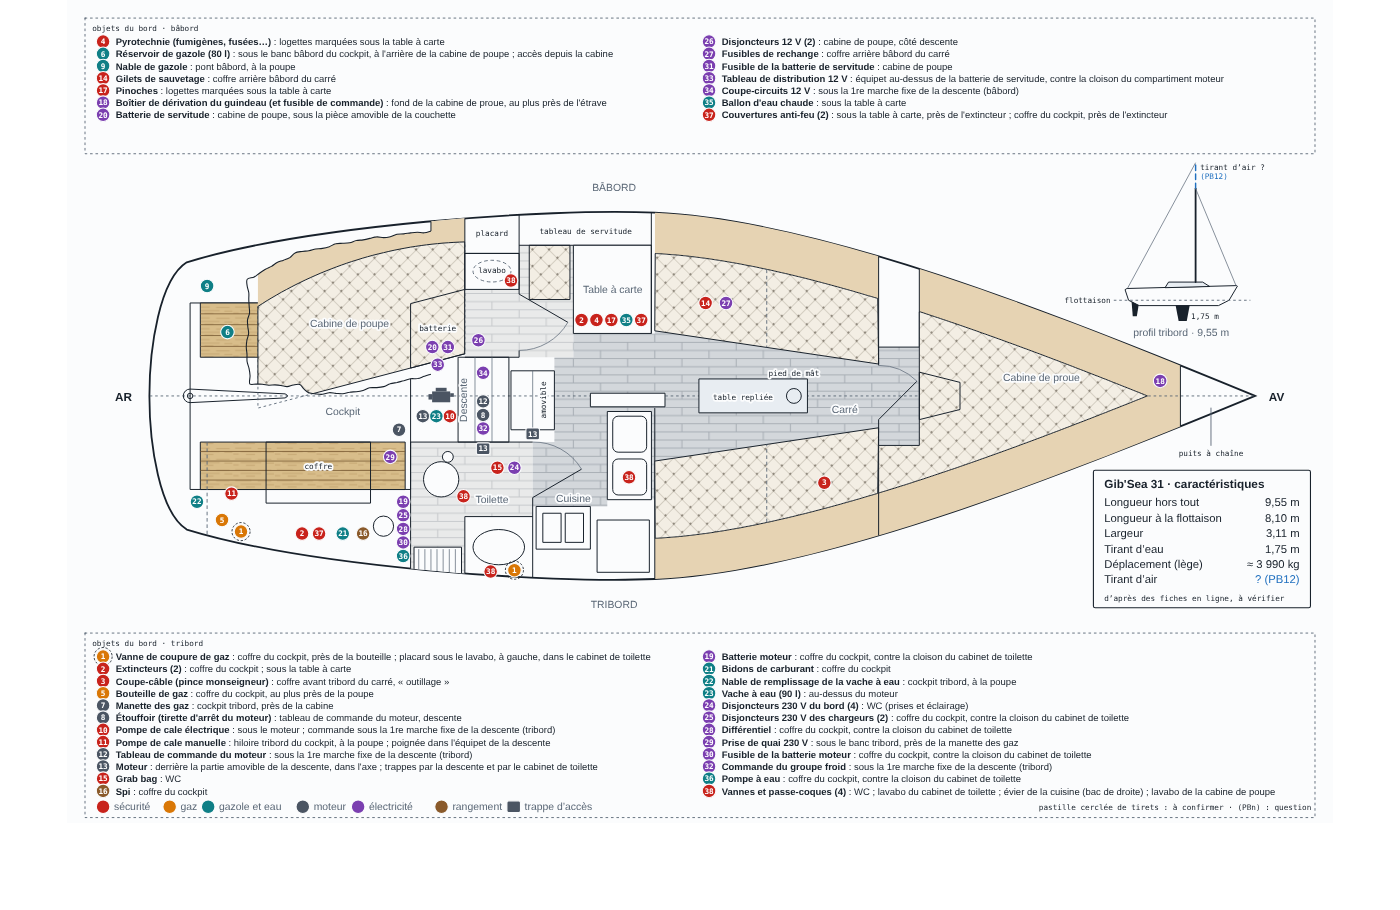
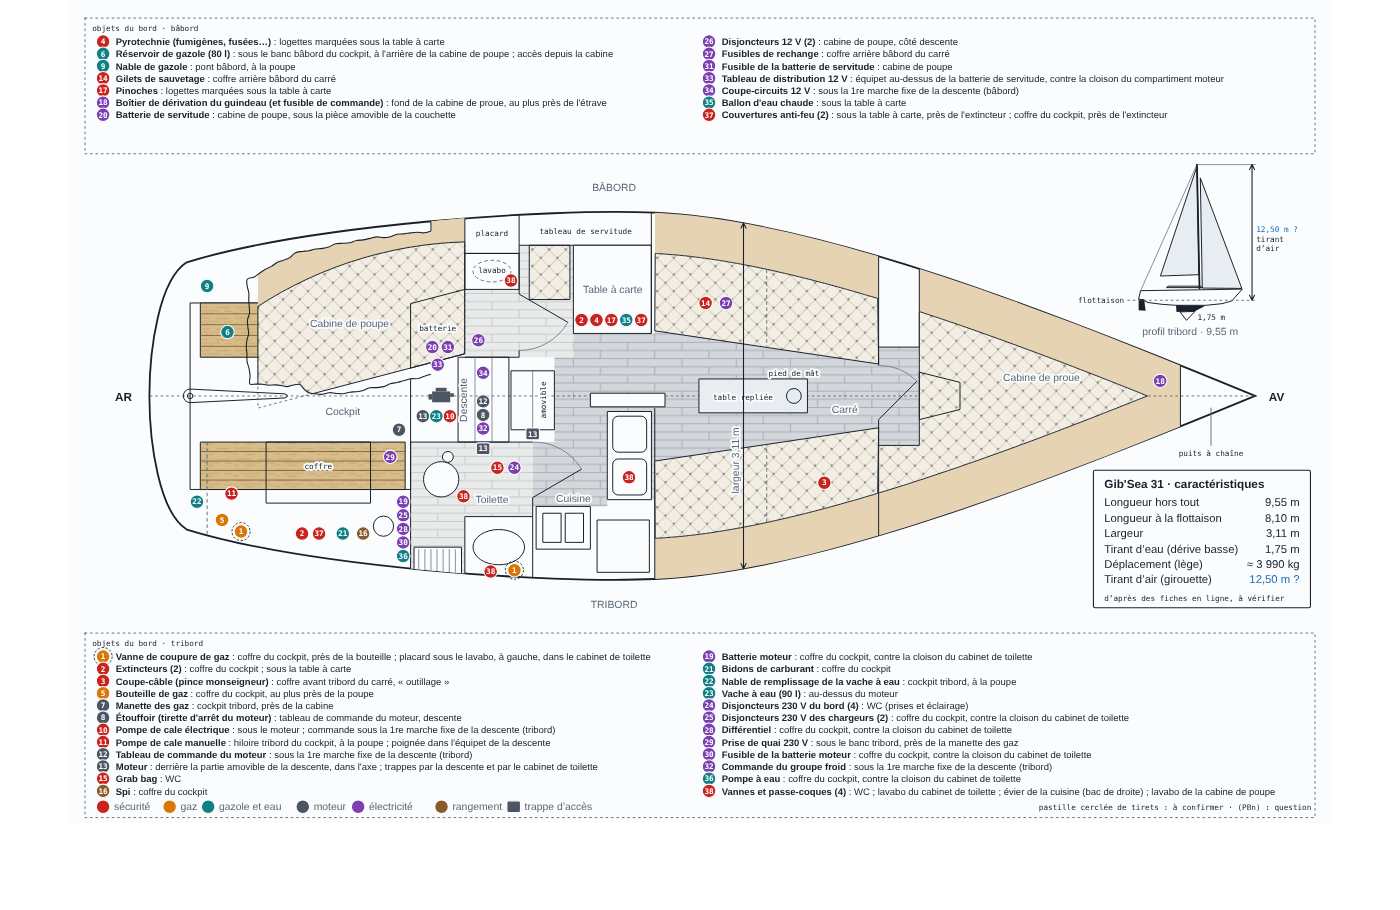
Plan de bord : tirant d'air 12,50 m (à vérifier), cote de la largeur, profil d'après le plan de voilure
- objets.yaml : tirant d'air 12,50 m girouette comprise, donné par l'utilisateur, à faire
  vérifier par Julie (PB12).
- Profil tribord redessiné d'après profil-constructeur.jpeg (fichier déposé, renommé) :
  coque, roof, aileron de quille et dérive, safran, mât, grand-voile, génois, pataras ;
  échelle sur la longueur hors tout et le tirant d'air, cote du tirant d'air.
- Cote de la largeur (3,11 m) sur le plan ; tirant d'eau précisé « dérive basse ».

Claude-Session: https://claude.ai/code/session_01PfnmSoVDkRxrtUipr37kZi

diff --git a/brouillons/plan-de-bord/plan_bord.py b/brouillons/plan-de-bord/plan_bord.py
@@ -406,47 +406,72 @@ def m(v, u="m"):
     return f"{v:.2f}".replace(".", ",") + f" {u}"
 B = BATEAU
 lignes = [("Longueur hors tout", m(B["longueur_hors_tout_m"])), ("Longueur à la flottaison", m(B["longueur_flottaison_m"])),
-          ("Largeur", m(B["largeur_m"])), ("Tirant d’eau", m(B["tirant_eau_m"])),
+          ("Largeur", m(B["largeur_m"])), ("Tirant d’eau (dérive basse)", m(B["tirant_eau_m"])),
           ("Déplacement (lège)", f"≈ {B['deplacement_kg']:,} kg".replace(",", " ")),
-          ("Tirant d’air", m(B["tirant_air_m"]) if B.get("tirant_air_m") else None)]
+          ("Tirant d’air (girouette)", m(B["tirant_air_m"]) + (" ?" if B.get("tirant_air_a_confirmer") else "")
+           if B.get("tirant_air_m") else None)]
 cx, cy = 1135, 520
 cart = [f'<rect class="callout" x="{cx}" y="{cy}" width="240" height="{34 + 17 * len(lignes) + 16}" rx="2"/>',
         f'<text class="tb" x="{cx + 12}" y="{cy + 20}">{B["modele"]} · caractéristiques</text>']
 for i, (lib, val) in enumerate(lignes):
     y = cy + 40 + 17 * i
     cart.append(f'<text class="t" x="{cx + 12}" y="{y}">{lib}</text>')
-    cart.append(f'<text class="t end" x="{cx + 228}" y="{y}">{val}</text>' if val else
+    cart.append(f'<text class="t end{" tu" if val.endswith("?") else ""}" x="{cx + 228}" y="{y}">{val}</text>' if val else
                 f'<text class="t tu end" x="{cx + 228}" y="{y}">? ({B["question_tirant_air"]})</text>')
 if B.get("statut") == "estime":
     cart.append(f'<text class="pin" x="{cx + 12}" y="{cy + 40 + 17 * len(lignes) + 2}">d’après des fiches en ligne, à vérifier</text>')
 
-# Profil tribord miniature (avant à droite), silhouette indicative : seules la longueur et le tirant
-# d'eau sont des données ; franc-bord, roof, quille, safran sur aileron et gréement fractionné sont dessinés
-# à vue, et la hauteur du mât, inconnue (PB12), est figurée en tirets au-dessus de la tête de foc.
-KP, PX, PW = 13, 1170, 332          # px par mètre, x de l'arrière, y de la flottaison
-def pp(x, z):                       # x en m depuis l'arrière, z en m au-dessus de la flottaison
-    return f"{PX + KP * x:.1f} {PW - KP * z:.1f}"
-def ppath(cls, *pts, close=True):
-    return f'<path class="{cls}" d="M' + " L".join(pp(*p) for p in pts) + (' Z"' if close else '"') + "/>"
-L, T = B["longueur_hors_tout_m"], B["tirant_eau_m"]
-MAT, HF = 6.0, 9.5                  # pied de mât (m depuis l'arrière), hauteur de la tête de foc (à vue)
-prof = [
-    '<g class="profil">',
-    ppath("amg-b", (0.15, 1.0), (L - 0.05, 1.25), (L, 1.2), (L - 0.7, 0), (L - 1.6, -0.45),
-          (1.2, -0.45), (0.3, 0), (0, 0.9)),                                     # coque
-    ppath("amg-f", (3.4, 1.07), (3.7, 1.55), (6.6, 1.55), (7.2, 1.17)),           # roof
-    ppath("dn", (4.3, -0.42), (5.5, -0.42), (5.25, -T), (4.55, -T)),               # quille
-    ppath("dn", (0.55, -0.1), (1.15, -0.42), (1.0, -1.35), (0.65, -1.35)),         # aileron et safran
-    f'<path class="n w2" d="M{pp(MAT, 1.55)} L{pp(MAT, HF)}"/>',                  # mât jusqu'à la tête de foc
-    f'<path class="u" d="M{pp(MAT, HF)} L{pp(MAT, HF + 2.2)}"/>',                 # haut du mât : hauteur inconnue
-    f'<path class="amg-l" d="M{pp(MAT, HF)} L{pp(L - 0.1, 1.22)} M{pp(MAT, HF + 2.2)} L{pp(0.2, 1.0)}"/>',  # étai, pataras
-    f'<path class="bound" d="M{PX - 12} {PW} H{PX + KP * L + 14}"/>',              # flottaison
-    f'<text class="pin" x="{PX + KP * (MAT + 0.4):.0f}" y="{PW - KP * (HF + 1.6):.0f}">tirant d’air ?</text>',
-    f'<text class="pin tu" x="{PX + KP * (MAT + 0.4):.0f}" y="{PW - KP * (HF + 0.8):.0f}">({B["question_tirant_air"]})</text>',
-    f'<text class="pin end" x="{PX - 16}" y="{PW + 3}">flottaison</text>',
-    f'<text class="pin" x="{PX + KP * 5.6:.0f}" y="{PW + KP * T - 2:.0f}">{m(T)}</text>',
-    f'<text class="ts mid" x="{PX + KP * L / 2:.0f}" y="{PW + KP * T + 16:.0f}">profil tribord · {m(L)}</text>',
-    '</g>']
+# Profil tribord miniature (avant à droite), redessiné d'après le plan de voilure du constructeur
+# (profil-constructeur.jpeg, points relevés en pixels de l'image) : mis à l'échelle sur la longueur hors tout
+# (horizontalement) et sur le tirant d'air (verticalement) ; sans tirant d'air, haut du mât en tirets (PB12).
+L, T, TA = B["longueur_hors_tout_m"], B["tirant_eau_m"], B.get("tirant_air_m")
+IX0, IX1, IWL, ITOP = 81.7, 428.3, 533.3, 38     # image : arrière, étrave, flottaison, tête de mât (girouette)
+KP, PX, PW = 12, 1185, 332                         # px par mètre, x de l'arrière, y de la flottaison
+SX, SZ = L / (IX1 - IX0), (TA or 12.5) / (IWL - ITOP)
+def pi(X, Y):                                      # point de l'image → point du folio
+    return f"{PX + KP * SX * (X - IX0):.1f} {PW - KP * SZ * (IWL - Y):.1f}"
+def ipath(cls, *pts, close=True):
+    return f'<path class="{cls}" d="M' + " L".join(pi(*q) for q in pts) + (' Z"' if close else '"') + "/>"
+COQUE = [(88.3, 498.3), (428.3, 492.7), (393.3, 536), (360, 546), (306.7, 551.7), (206.7, 551.7),
+         (160, 548.3), (113.3, 541.7), (96.7, 533.3), (81.7, 528.3)]
+ROOF = [(175, 487), (180, 481.7), (290, 481.7), (295, 487)]
+LEST = [(206.7, 551.7), (208.3, 576), (270, 573.3), (305, 553.3)]          # aileron de quille
+DERIVE = [(220, 576), (241.7, 606.7), (270, 574)]                         # dérive basse
+SAFRAN = [(81.7, 528.3), (100, 530), (105, 571.7), (81.7, 570)]
+GV = [(276.7, 44.7), (283.3, 440), (154.7, 444.7)]                        # grand-voile : tête, point d'amure, point d'écoute
+GENOIS = [(288, 86.7), (426.7, 490), (294.7, 488.7)]
+xd = PX + KP * SX * (241.7 - IX0)
+prof = ['<g class="profil">',
+        ipath("amg-f", *GV), ipath("amg-f", *GENOIS),
+        f'<path class="amg-l" d="M{pi(276.7, 38)} L{pi(88.3, 498.3)}"/>',      # pataras
+        ipath("amg-b", *COQUE), ipath("amg-f", *ROOF),
+        ipath("dn", *LEST), ipath("amg-b", *DERIVE), ipath("dn", *SAFRAN),
+        f'<path class="n w2" d="M{pi(285.3, 490)} L{pi(276.7, 38)}"/>',       # mât
+        f'<path class="bound" d="M{PX - 12} {PW} H{PX + KP * L + 14}"/>',      # flottaison
+        f'<text class="pin end" x="{PX - 16}" y="{PW + 3}">flottaison</text>',
+        f'<text class="pin" x="{xd + 12:.0f}" y="{PW + KP * SZ * (606.7 - IWL):.0f}">{m(T)}</text>',
+        f'<text class="ts mid" x="{PX + KP * L / 2:.0f}" y="{PW + KP * SZ * (606.7 - IWL) + 16:.0f}">profil tribord · {m(L)}</text>']
+HM = SZ * (IWL - ITOP)
+if TA:   # cote du tirant d'air, à droite de l'étrave
+    xc, conf = PX + KP * (L + 0.9), B.get("tirant_air_a_confirmer")
+    prof += [f'<path class="amg-l" d="M{pi(281, 38)} H{xc + 4}"/>',
+             f'<path class="arr" d="M{xc} {PW} V{PW - KP * HM:.1f} M{xc - 3} {PW - KP * HM + 6:.1f} L{xc} {PW - KP * HM:.1f} L{xc + 3} {PW - KP * HM + 6:.1f}'
+             f' M{xc - 3} {PW - 6} L{xc} {PW} L{xc + 3} {PW - 6}"/>',
+             f'<text class="pin{" tu" if conf else ""}" x="{xc + 5:.0f}" y="{PW - KP * HM / 2:.0f}">{m(TA)}{" ?" if conf else ""}</text>',
+             f'<text class="pin" x="{xc + 5:.0f}" y="{PW - KP * HM / 2 + 11:.0f}">tirant</text>',
+             f'<text class="pin" x="{xc + 5:.0f}" y="{PW - KP * HM / 2 + 21:.0f}">d’air</text>']
+else:
+    prof += [f'<text class="pin tu" x="{PX + KP * 6.5:.0f}" y="{PW - KP * HM:.0f}">tirant d’air ? ({B["question_tirant_air"]})</text>']
+prof.append('</g>')
+
+# Cote de la largeur sur le plan, au maître-bau du dessin (bord le plus écarté de l'axe)
+xb, yb = min(bord_babord(), key=lambda q: q[1])
+xb += 190                                      # décalée vers l'avant, hors des pastilles de la table à carte
+yb = min(q[1] for q in bord_babord() if abs(q[0] - xb) < 3)
+Xb, Yh, Yt = OX + K * xb, OY + K * yb, OY + K * M(yb)
+prof += [f'<path class="arr" d="M{Xb:.1f} {Yh:.1f} V{Yt:.1f} M{Xb - 3:.1f} {Yh + 6:.1f} L{Xb:.1f} {Yh:.1f} L{Xb + 3:.1f} {Yh + 6:.1f}'
+         f' M{Xb - 3:.1f} {Yt - 6:.1f} L{Xb:.1f} {Yt:.1f} L{Xb + 3:.1f} {Yt - 6:.1f}"/>',
+         f'<text class="ts mid halo" x="{Xb - 5:.1f}" y="{OY + K * (CY + 95):.1f}" transform="rotate(-90 {Xb - 5:.1f} {OY + K * (CY + 95):.1f})">largeur {m(B["largeur_m"])}</text>']
 
 svg = f'''<svg xmlns="http://www.w3.org/2000/svg" viewBox="0 0 1400 910" role="img" aria-label="Plan de bord vu de dessus : aménagement intérieur, pont et objets du bord du Gib'Sea 31.">
   <title>Folio 6 · Plan de bord</title>

diff --git a/brouillons/plan-de-bord/README.md b/brouillons/plan-de-bord/README.md
@@ -8,9 +8,9 @@ Phases :
 2. Données des objets : premier essai le 19/10 dans `objets.yaml`, d'après la feuille Google « Emplacement trucs bateau » (lue sans la modifier), repris le même jour avec la feuille complétée (38 lignes) et les réponses de l'utilisateur. Chaque objet a un numéro, une catégorie (couleur de la pastille), son emplacement en clair et ses positions sur le plan, toutes estimées. À reporter dans le relevé quand les emplacements seront confirmés.
 3. Légendes : premier essai, pastilles numérotées sur le plan (cerclées de tirets quand la feuille dit « à confirmer »), repères carrés pour les trappes d'accès, pictogramme du moteur et liste par bord dans les cadres du haut et du bas, avec la clé des couleurs.
 
-4. Mise à jour du 20/10 : feuille relue (vanne de gaz : placard sous le lavabo, à gauche, dans le cabinet de toilette) ; cartouche des caractéristiques du bateau (`bateau:` dans `objets.yaml`), d'après des fiches en ligne ([sailboatdata](https://sailboatdata.com/sailboat/gibsea-31/), [SailingTheWeb](https://www.sailingtheweb.com/en/sailboat/gibert+marine+(gib+sea)/gib+sea+31), [Yacht Database](https://www.yachtdatabase.com/sv/review.jsp?id=Gib%27Sea+31)), donc `statut: estime` jusqu'à vérification sur les papiers du bord ; copie pour Inkscape ; profil tribord miniature au-dessus de l'étrave, à l'échelle pour la longueur et le tirant d'eau seulement : franc-bord, roof, quille, safran sur aileron et gréement fractionné dessinés à vue, haut du mât en tirets tant que le tirant d'air est inconnu (PB12).
+4. Mise à jour du 20/10 : feuille relue (vanne de gaz : placard sous le lavabo, à gauche, dans le cabinet de toilette) ; cartouche des caractéristiques du bateau (`bateau:` dans `objets.yaml`), d'après des fiches en ligne ([sailboatdata](https://sailboatdata.com/sailboat/gibsea-31/), [SailingTheWeb](https://www.sailingtheweb.com/en/sailboat/gibert+marine+(gib+sea)/gib+sea+31), [Yacht Database](https://www.yachtdatabase.com/sv/review.jsp?id=Gib%27Sea+31)), donc `statut: estime` jusqu'à vérification sur les papiers du bord ; copie pour Inkscape ; profil tribord miniature au-dessus de l'étrave, redessiné d'après le plan de voilure du constructeur (`profil-constructeur.jpeg`, déposé par l'utilisateur le 20/10), mis à l'échelle sur la longueur hors tout et sur le tirant d'air ; cote de la largeur sur le plan, au maître-bau. Le plan de voilure montre un dériveur lesté (aileron de quille et dérive, cf. le puits de dérive) : 1,75 m est le tirant d'eau dérive basse. Tirant d'air : 12,50 m girouette comprise, donné par l'utilisateur le 20/10, à faire vérifier par Julie (PB12 reste ouverte jusque-là).
 
-Questions de la phase 2 : PB1 à PB11, toutes répondues le 19/10. PB12 (20/10) : tirant d'air (hauteur du mât au-dessus de la flottaison, antenne comprise) ? Aucune fiche en ligne ne le donne ; à mesurer ou à lire sur les papiers du bord. Restent à faire : vérifier les emplacements « à confirmer avec Julie » (vanne de gaz), puis reporter les objets dans le relevé.
+Questions de la phase 2 : PB1 à PB11, toutes répondues le 19/10. PB12 (20/10) : tirant d'air ? Aucune fiche en ligne ne le donne ; 12,50 m girouette comprise d'après l'utilisateur, à faire vérifier par Julie. Restent à faire : vérifier les emplacements « à confirmer avec Julie » (vanne de gaz), puis reporter les objets dans le relevé.
 
 `python brouillons/plan-de-bord/plan_bord.py` régénère le SVG et sa copie `folio-6-plan-de-bord-inkscape.svg` : mêmes dessins, couleurs du thème clair écrites en dur (Inkscape et la plupart des visionneuses ne lisent pas les variables CSS), fond dans un calque verrouillé, pastilles et trappes du plan dans le calque « Pastilles à placer », identifiées `pN-i` / `tN-i` (objet N, i-ème emplacement, en partant de 0). Pour placer les repères : déplacer les pastilles dans cette copie, sans toucher au reste, puis reporter leurs positions dans `objets.yaml` (X = 80 + 0,75 · x ; Y = 196,25 + 0,75 · y) ; ne pas retoucher les SVG, réécrits à chaque génération. Le script il reprend le bloc `<style>` du folio 0 et y ajoute les classes `amg`, `amg-f`, `amg-b`, `amg-d`, `amg-l`, `arr`, `halo`, `sol-b`, `sol-h`, `mat`, `teck`, `teck-j`, `vaig`, `vaig-f`, `obj`, `conf`, `tr`, `leg`, `ico-mot` et les classes de catégorie, les variables de couleur des textures et leurs motifs (`<defs>`), à reporter dans tous les folios et dans `page.py` à l'intégration.
 
